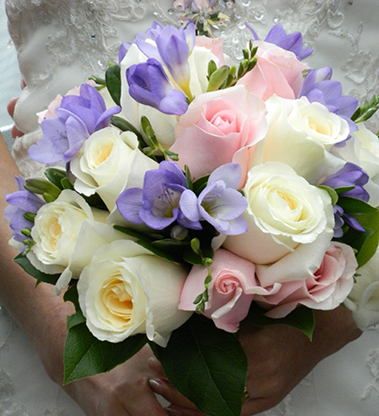
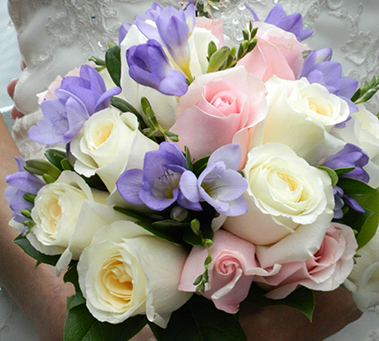
Updating things

diff --git a/style.css b/style.css
@@ -306,7 +306,7 @@ h4 {
 }
 
 #weddingsButton{
-	background-image: url('/img/wedding/bouquet_focus.png');
+	background-image: url('/img/wedding/aj-wedding/bouquet-bride02.png');
 }
 
 #corsageButton{
@@ -492,10 +492,10 @@ button:active{
 }
 
 .homeButtons{
-	background-size: 100% auto;
-	background-repeat: no-repeat;
-	width: 130px;
-	height: 130px;
+  background-size: 100% auto;
+  background-repeat: no-repeat;
+  width: 130px;
+  height: 130px;
   font-family: 'Dawning of a New Day', cursive;
   border-radius: 5px;
   color: #fff;
